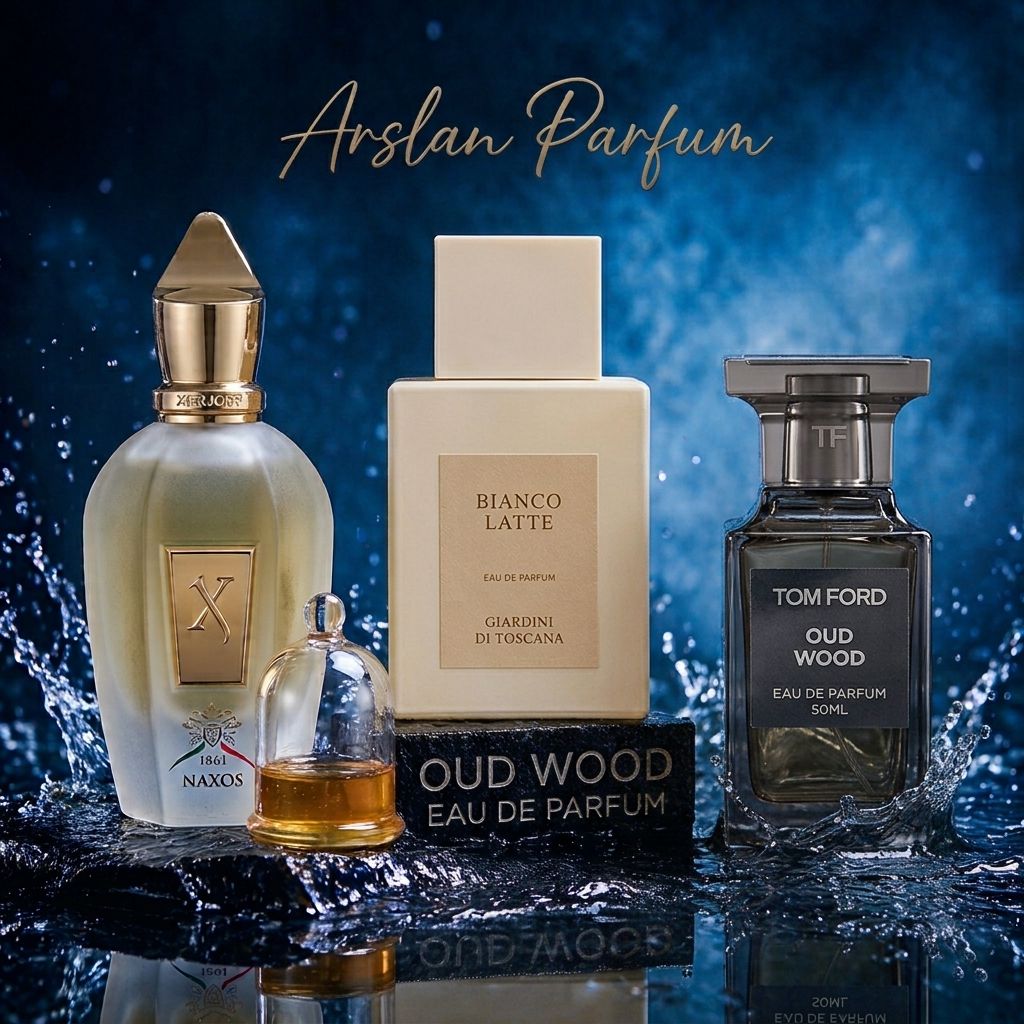
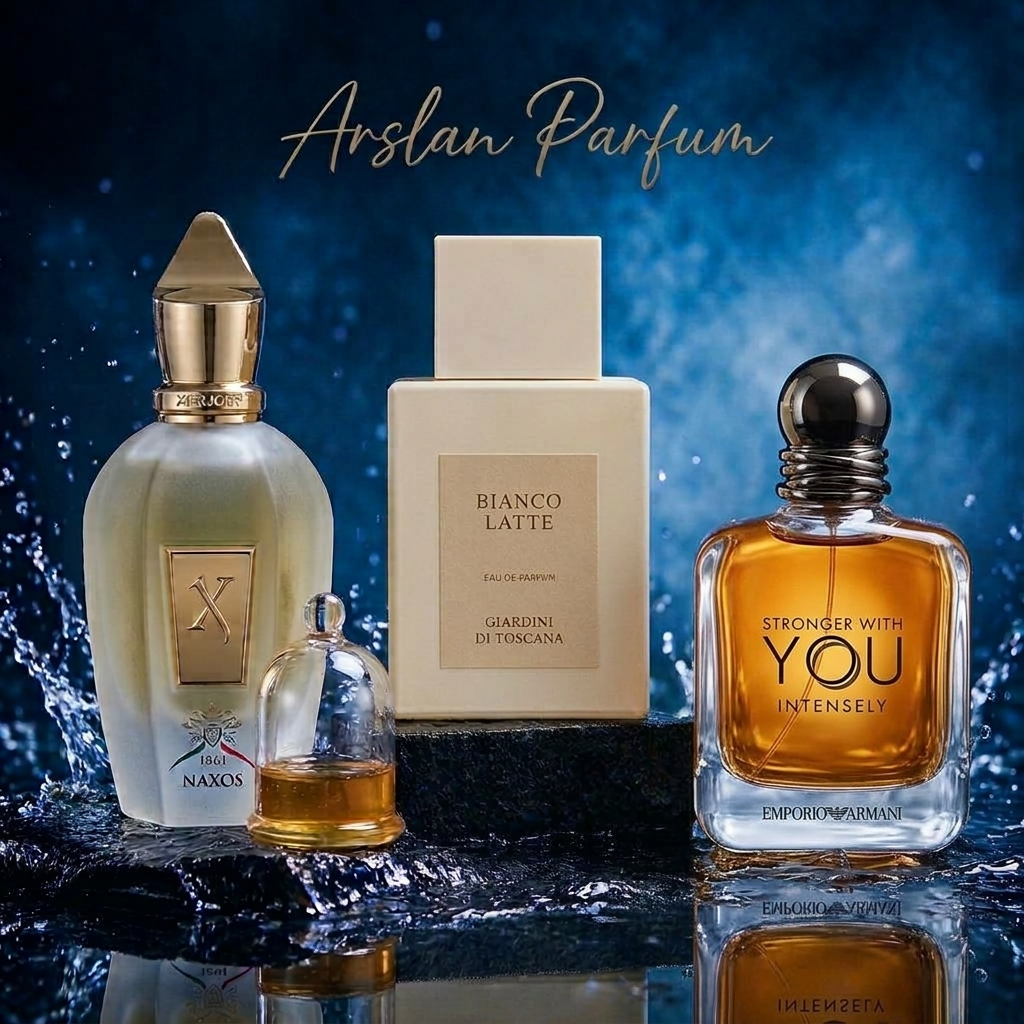
=edit packs of parfums

diff --git a/frontend/src/App.tsx b/frontend/src/App.tsx
@@ -267,7 +267,7 @@ const packShowcaseItems: PackShowcaseItem[] = [
     id: "pack-hiver",
     image: PackHiverImage,
     perfumeSlug: "tom-ford-noir",
-    perfumeSlugs: ["tom-ford-oud-wood", "ombre-leather", "spicebomb"],
+    perfumeSlugs: ["sauvage-elixir-new", "ombre-leather", "spicebomb"],
     purchaseOption: "pack_50ml_x3",
     selectionCount: 3,
     titleFr: "Pack Hiver ❄",
@@ -297,7 +297,7 @@ const packShowcaseItems: PackShowcaseItem[] = [
     id: "pack-automne",
     image: PackAutomneImage,
     perfumeSlug: "xerjoff-naxos",
-    perfumeSlugs: ["xerjoff-naxos", "tom-ford-oud-wood", "bianco-latte"],
+    perfumeSlugs: ["xerjoff-naxos", "stronger-with-you-intensely", "bianco-latte"],
     purchaseOption: "pack_50ml_x3",
     selectionCount: 3,
     titleFr: "Pack Automne 🍂",
@@ -329,7 +329,7 @@ const packShowcaseItems: PackShowcaseItem[] = [
     id: "pack-bureau",
     image: PackBureauImage,
     perfumeSlug: "boss-bottled",
-    perfumeSlugs: ["boss-bottled", "dior-homme-intense", "tom-ford-oud-wood"],
+    perfumeSlugs: ["boss-bottled", "dior-homme-intense", "le-male-elixir"],
     purchaseOption: "pack_50ml_x3",
     selectionCount: 3,
     titleFr: "Pack Bureau 💼",
